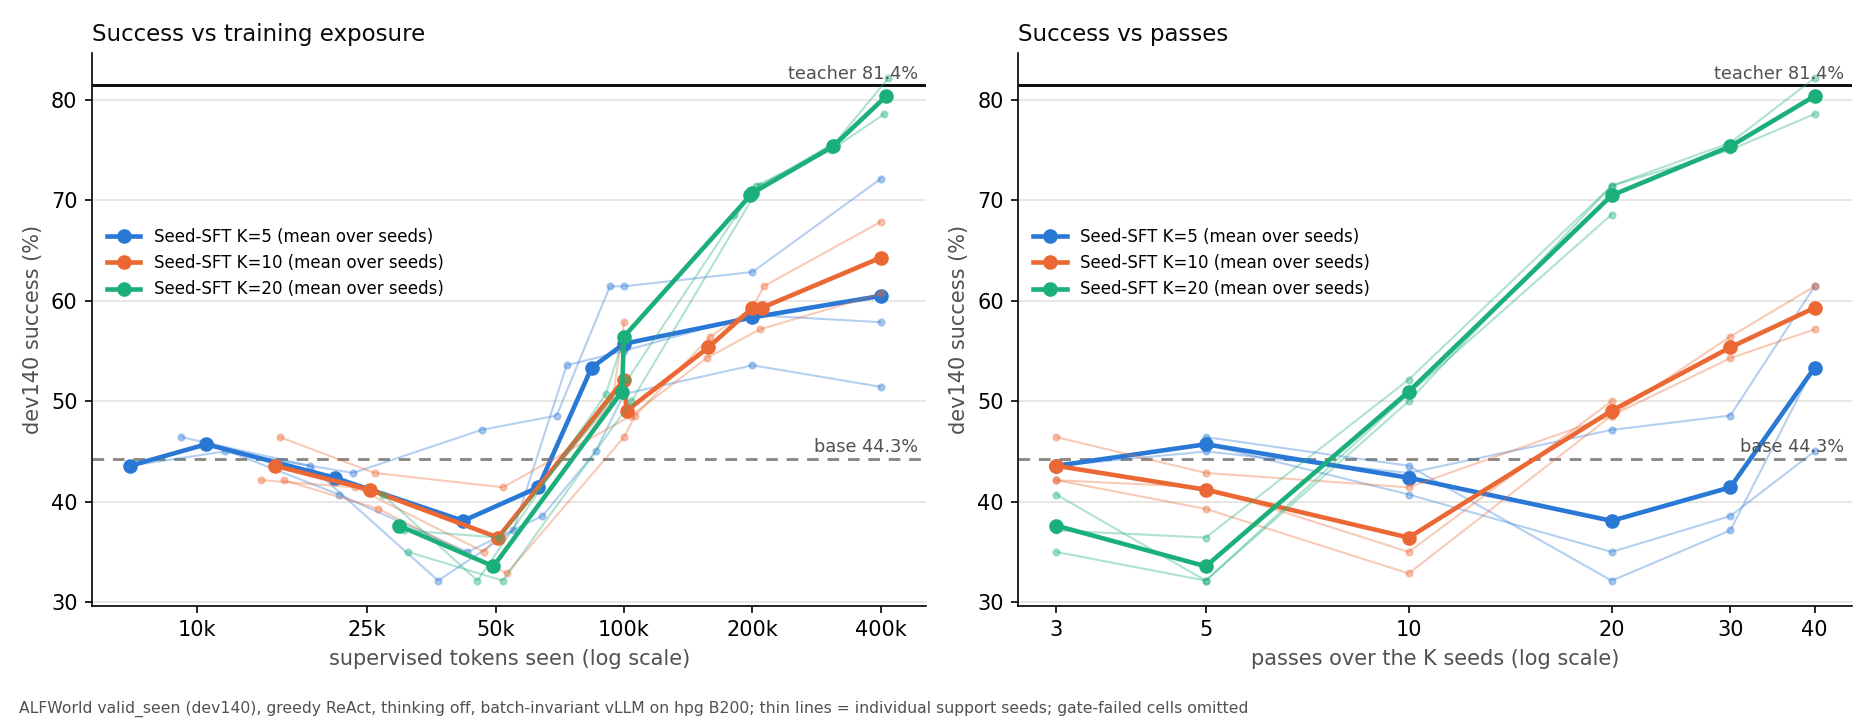
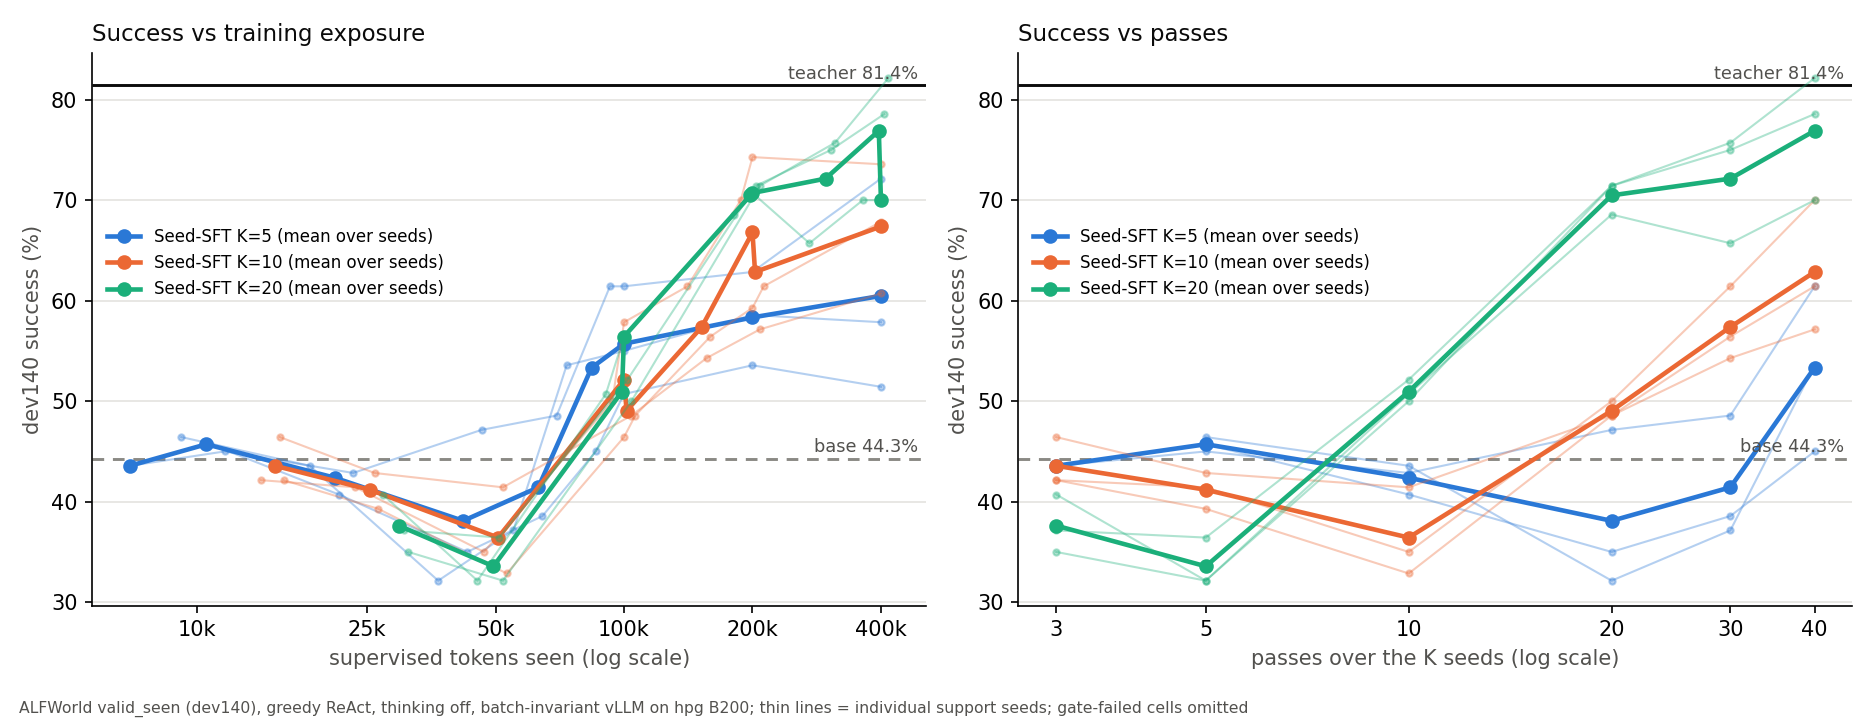
Sweep table: fill gate-failed high-dose cells from the schema-5 re-eval (marked); 3-seed means at ~400k tokens K5 84.7, K10 94.3, K20 107.7
Claude-Session: https://claude.ai/code/session_01AmxVgdDMucWuxpaHzsnp9Y

diff --git a/analysis/seedsft_sweep.py b/analysis/seedsft_sweep.py
@@ -22,6 +22,8 @@ def main():
     parser.add_argument("--teacher", required=True)
     parser.add_argument("--grid", default="configs/seedsft_dose_grid.json")
     parser.add_argument("--out", required=True)
+    parser.add_argument("--extra-root", action="append", default=[],
+                        help="re-evaluation roots (<root>/<run>-<label>/eval); used only for cells whose gate failed in --root")
     args = parser.parse_args()
     root, out = Path(args.root), Path(args.out)
     out.mkdir(parents=True, exist_ok=True)
@@ -40,7 +42,13 @@ def main():
                      "passes": c["passes"], "status": "missing"}
             if (cell_dir / "check" / "FAILED").exists():
                 entry["status"] = "gate_failed"
-            elif (cell_dir / "eval" / "summary.json").exists():
+                for extra in args.extra_root:
+                    alt = Path(extra) / f"{run['name']}-{c['label']}"
+                    if (alt / "eval" / "summary.json").exists():
+                        cell_dir, entry["reevaluated"] = alt, str(Path(extra))
+                        entry["status"] = "pending_ok"
+                        break
+            if entry["status"] in ("missing", "pending_ok") and (cell_dir / "eval" / "summary.json").exists():
                 outcomes = load_run(cell_dir / "eval")["outcomes"]
                 s = sum(outcomes.values())
                 entry.update(status="ok", successes=s, rate=s / len(outcomes), vs_base=mcnemar(outcomes, base),
@@ -52,14 +60,15 @@ def main():
     labels = ["p03", "p05", "p10", "p20", "p30", "p40", "t100k", "t200k", "t400k"]
     lines = [f"Base {sum(base.values())}/{n} = {100 * sum(base.values()) / n:.1f}%; teacher {sum(teacher.values())}/{n} = "
              f"{100 * sum(teacher.values()) / n:.1f}%. Cells: successes/140; F = equivalence gate failed (not evaluated); "
-             "· = merged into a nearby pass point (within 5%).", "",
+             "· = merged into a nearby pass point (within 5%); † = evaluated after gate amendment 4 (schema 5).", "",
              "| K | support seed | " + " | ".join(labels) + " |", "|---|---|" + "---|" * len(labels)]
     for run in grid:
         row = []
         for label in labels:
             cell = next((c for c in cells if c["K"] == run["K"] and c["seed"] == run["support_seed"] and c["label"] == label), None)
             row.append("·" if cell is None else "F" if cell["status"] == "gate_failed" else
-                       "?" if cell["status"] == "missing" else str(cell["successes"]))
+                       "?" if cell["status"] == "missing" else
+                       str(cell["successes"]) + ("†" if cell.get("reevaluated") else ""))
         lines.append(f"| {run['K']} | s{run['support_seed']} | " + " | ".join(row) + " |")
     lines += ["", "Per-K means over the support seeds that have an evaluated cell (n seeds in brackets):", "",
               "| K | 3 passes | 10 passes | 20 passes | 40 passes | ~400k tokens | best cell (seed, dose): success, vs base only-row/only-base, p |",

diff --git a/reports/figs/seedsft-sweep/seedsft_sweep.md b/reports/figs/seedsft-sweep/seedsft_sweep.md
@@ -1,4 +1,4 @@
-Base 62/140 = 44.3%; teacher 114/140 = 81.4%. Cells: successes/140; F = equivalence gate failed (not evaluated); · = merged into a nearby pass point (within 5%).
+Base 62/140 = 44.3%; teacher 114/140 = 81.4%. Cells: successes/140; F = equivalence gate failed (not evaluated); · = merged into a nearby pass point (within 5%); † = evaluated after gate amendment 4 (schema 5).
 
 | K | support seed | p03 | p05 | p10 | p20 | p30 | p40 | t100k | t200k | t400k |
 |---|---|---|---|---|---|---|---|---|---|---|
@@ -9,16 +9,16 @@ Base 62/140 = 44.3%; teacher 114/140 = 81.4%. Cells: successes/140; F = equivale
 | 10 | s1 | 65 | 60 | 58 | 68 | 76 | 80 | · | · | 85 |
 | 20 | s1 | 52 | 51 | 73 | 100 | 105 | 110 | · | · | · |
 | 5 | s2 | F | 65 | 61 | 45 | 52 | 75 | 77 | 82 | 81 |
-| 10 | s2 | 59 | 58 | 49 | 70 | F | F | 81 | F | F |
-| 20 | s2 | 57 | 45 | 71 | 96 | F | F | 79 | 99 | F |
+| 10 | s2 | 59 | 58 | 49 | 70 | 86† | 98† | 81 | 104† | 103† |
+| 20 | s2 | 57 | 45 | 71 | 96 | 92† | 98† | 79 | 99 | 98† |
 
 Per-K means over the support seeds that have an evaluated cell (n seeds in brackets):
 
 | K | 3 passes | 10 passes | 20 passes | 40 passes | ~400k tokens | best cell (seed, dose): success, vs base only-row/only-base, p |
 |---|---|---|---|---|---|---|
 | 5 | 61.0 [1] | 59.3 [3] | 53.3 [3] | 74.7 [3] | 84.7 [3] | s1 t400k: 101/140, 43/4, p=2.8e-09 |
-| 10 | 61.0 [3] | 51.0 [3] | 68.7 [3] | 83.0 [2] | 90.0 [2] | s0 t400k: 95/140, 40/7, p=1.1e-06 |
-| 20 | 52.7 [3] | 71.3 [3] | 98.7 [3] | 112.5 [2] | 112.5 [2] | s0 p40: 115/140, 56/3, p=1.2e-13 |
+| 10 | 61.0 [3] | 51.0 [3] | 68.7 [3] | 88.0 [3] | 94.3 [3] | s2 t200k: 104/140, 46/4, p=4.5e-10 |
+| 20 | 52.7 [3] | 71.3 [3] | 98.7 [3] | 107.7 [3] | 107.7 [3] | s0 p40: 115/140, 56/3, p=1.2e-13 |
 
 Serving-noise reference: base vs base on two non-invariant servers flipped 12/140 outcomes; under batch-invariant serving every number above is exactly reproducible.
 
